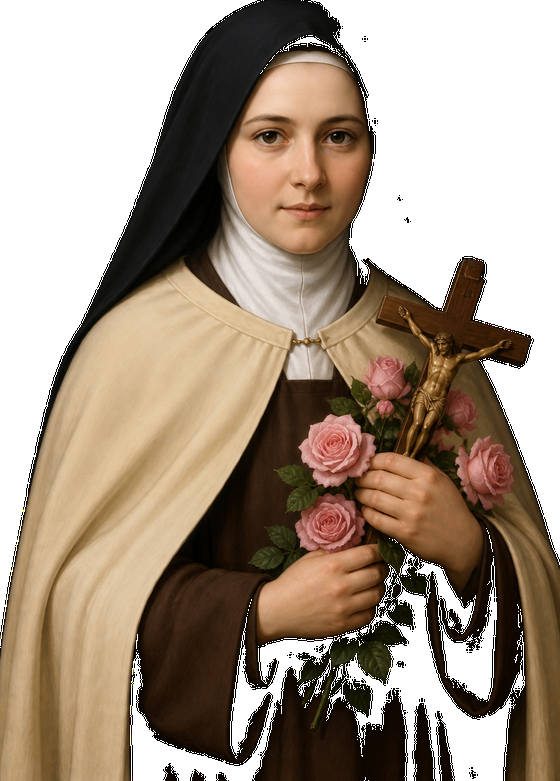
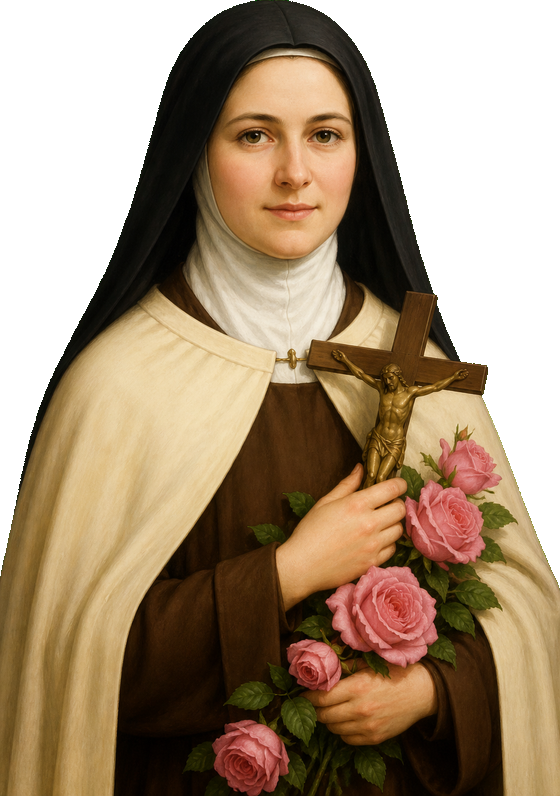
Rebuild saint cutouts with green-screen keying for solid habits.
Avoid black-background removal that punched holes in dark clothing, and serve patrons with plain img tags.

diff --git a/src/components/SiteFooter.tsx b/src/components/SiteFooter.tsx
@@ -1,4 +1,3 @@
-import Image from "next/image";
 import Link from "next/link";
 
 const patrons = [
@@ -39,16 +38,14 @@ export function SiteFooter() {
                 className="pointer-events-none absolute inset-4 -z-10 rounded-full bg-[radial-gradient(circle,rgba(201,137,151,0.18),transparent_70%)] blur-md"
                 aria-hidden
               />
-              <Image
-                src={patron.src}
+              {/* eslint-disable-next-line @next/next/no-img-element */}
+              <img
+                src={`${patron.src}?v=3`}
                 alt={patron.alt}
-                width={patron.wide ? 360 : 280}
-                height={360}
-                unoptimized
-                className={`mx-auto h-auto bg-transparent opacity-95 ${
+                className={`mx-auto h-auto w-auto bg-transparent object-contain ${
                   patron.wide
-                    ? "w-[8.5rem] md:w-[10rem]"
-                    : "w-[5.75rem] md:w-[6.75rem]"
+                    ? "max-h-[9.5rem] md:max-h-[11rem]"
+                    : "max-h-[8.5rem] md:max-h-[10rem]"
                 }`}
               />
             </div>
